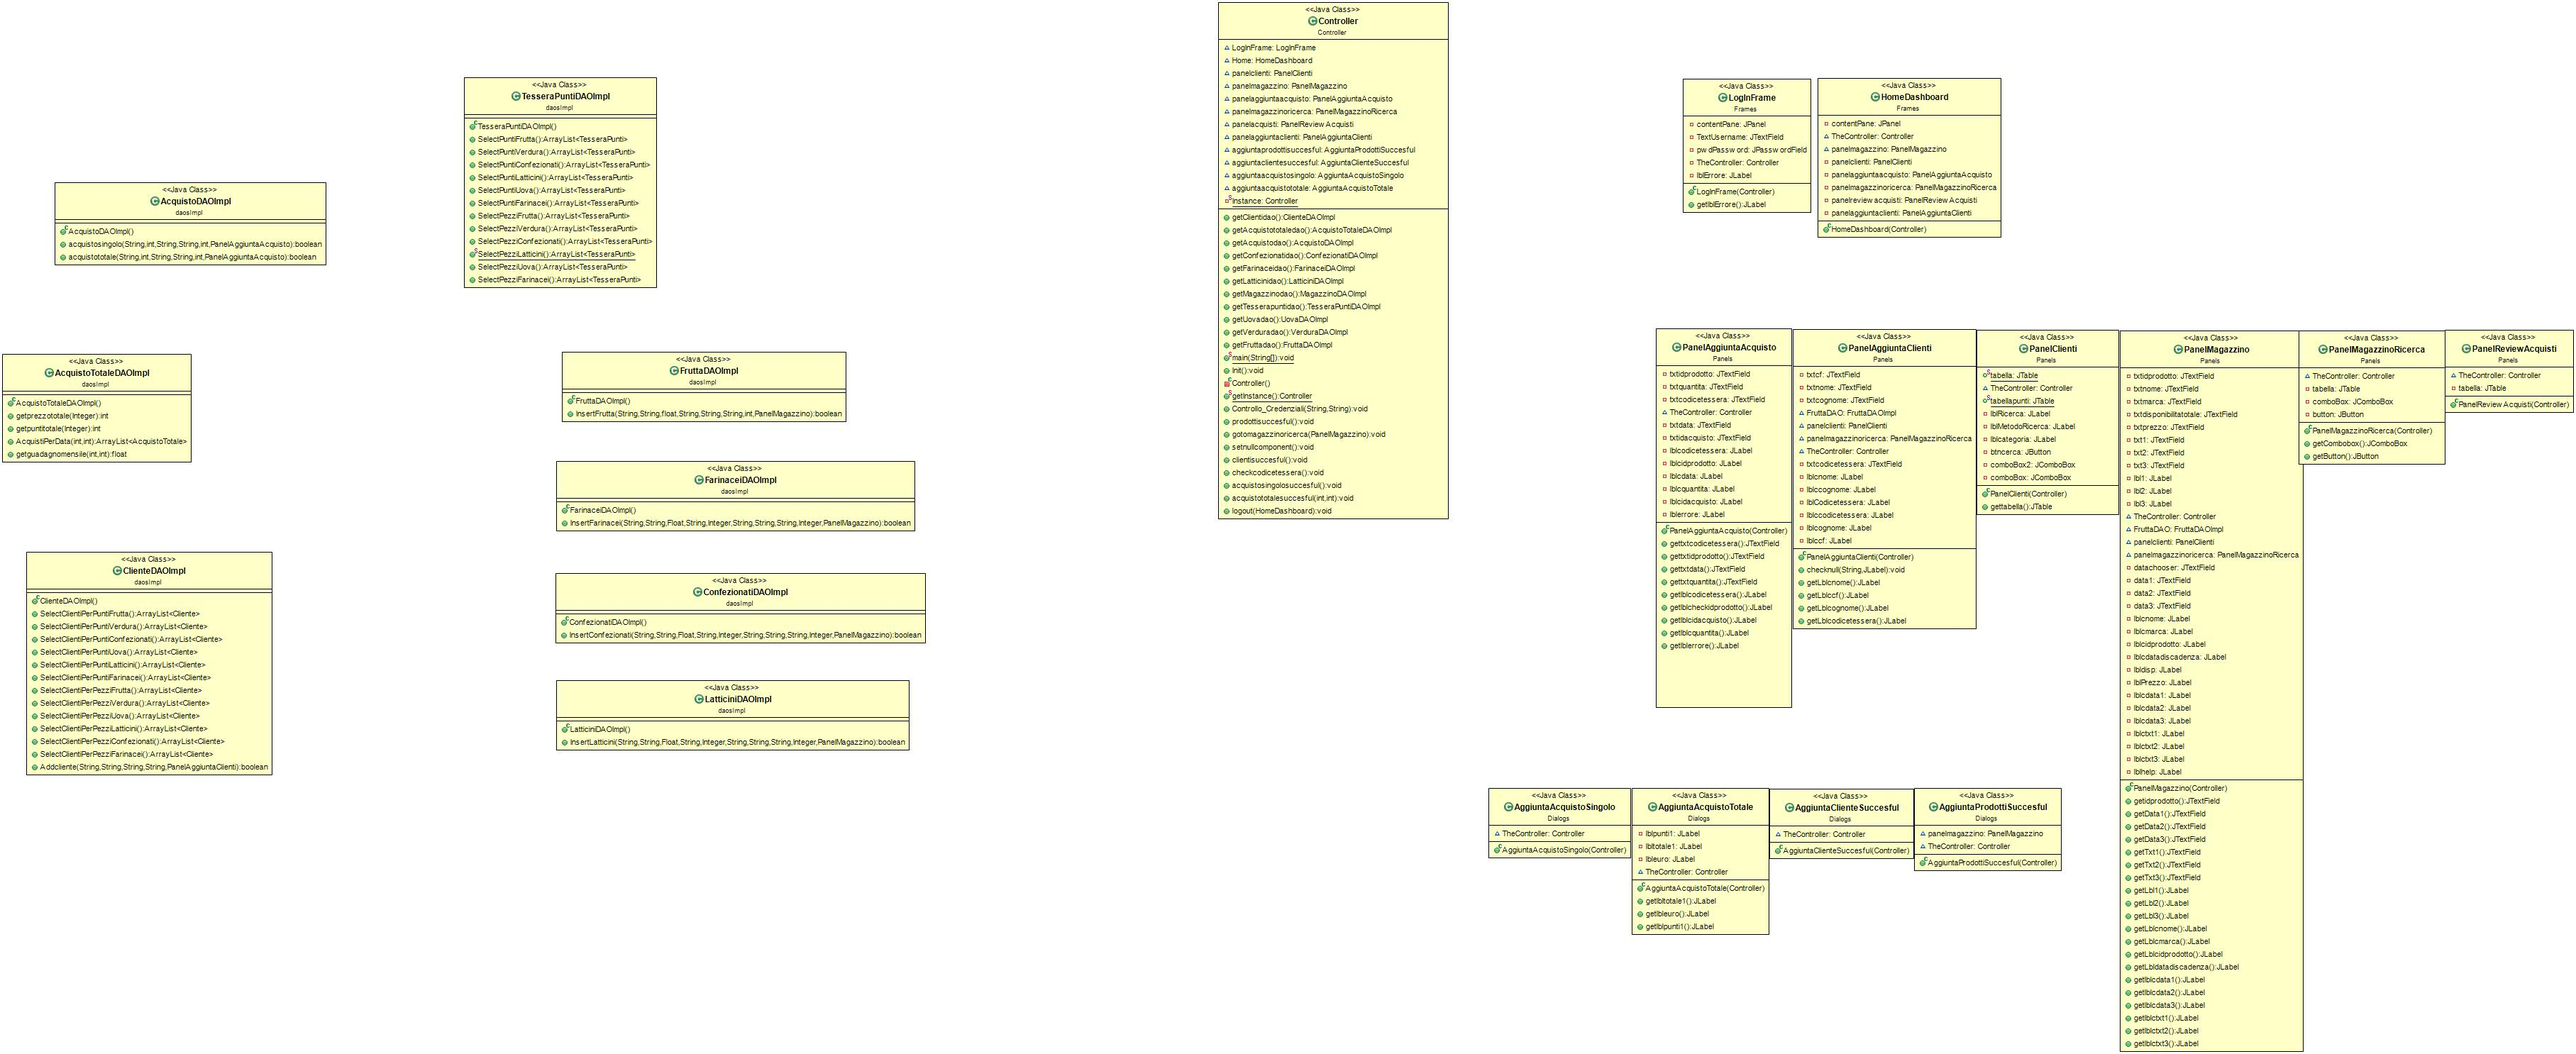
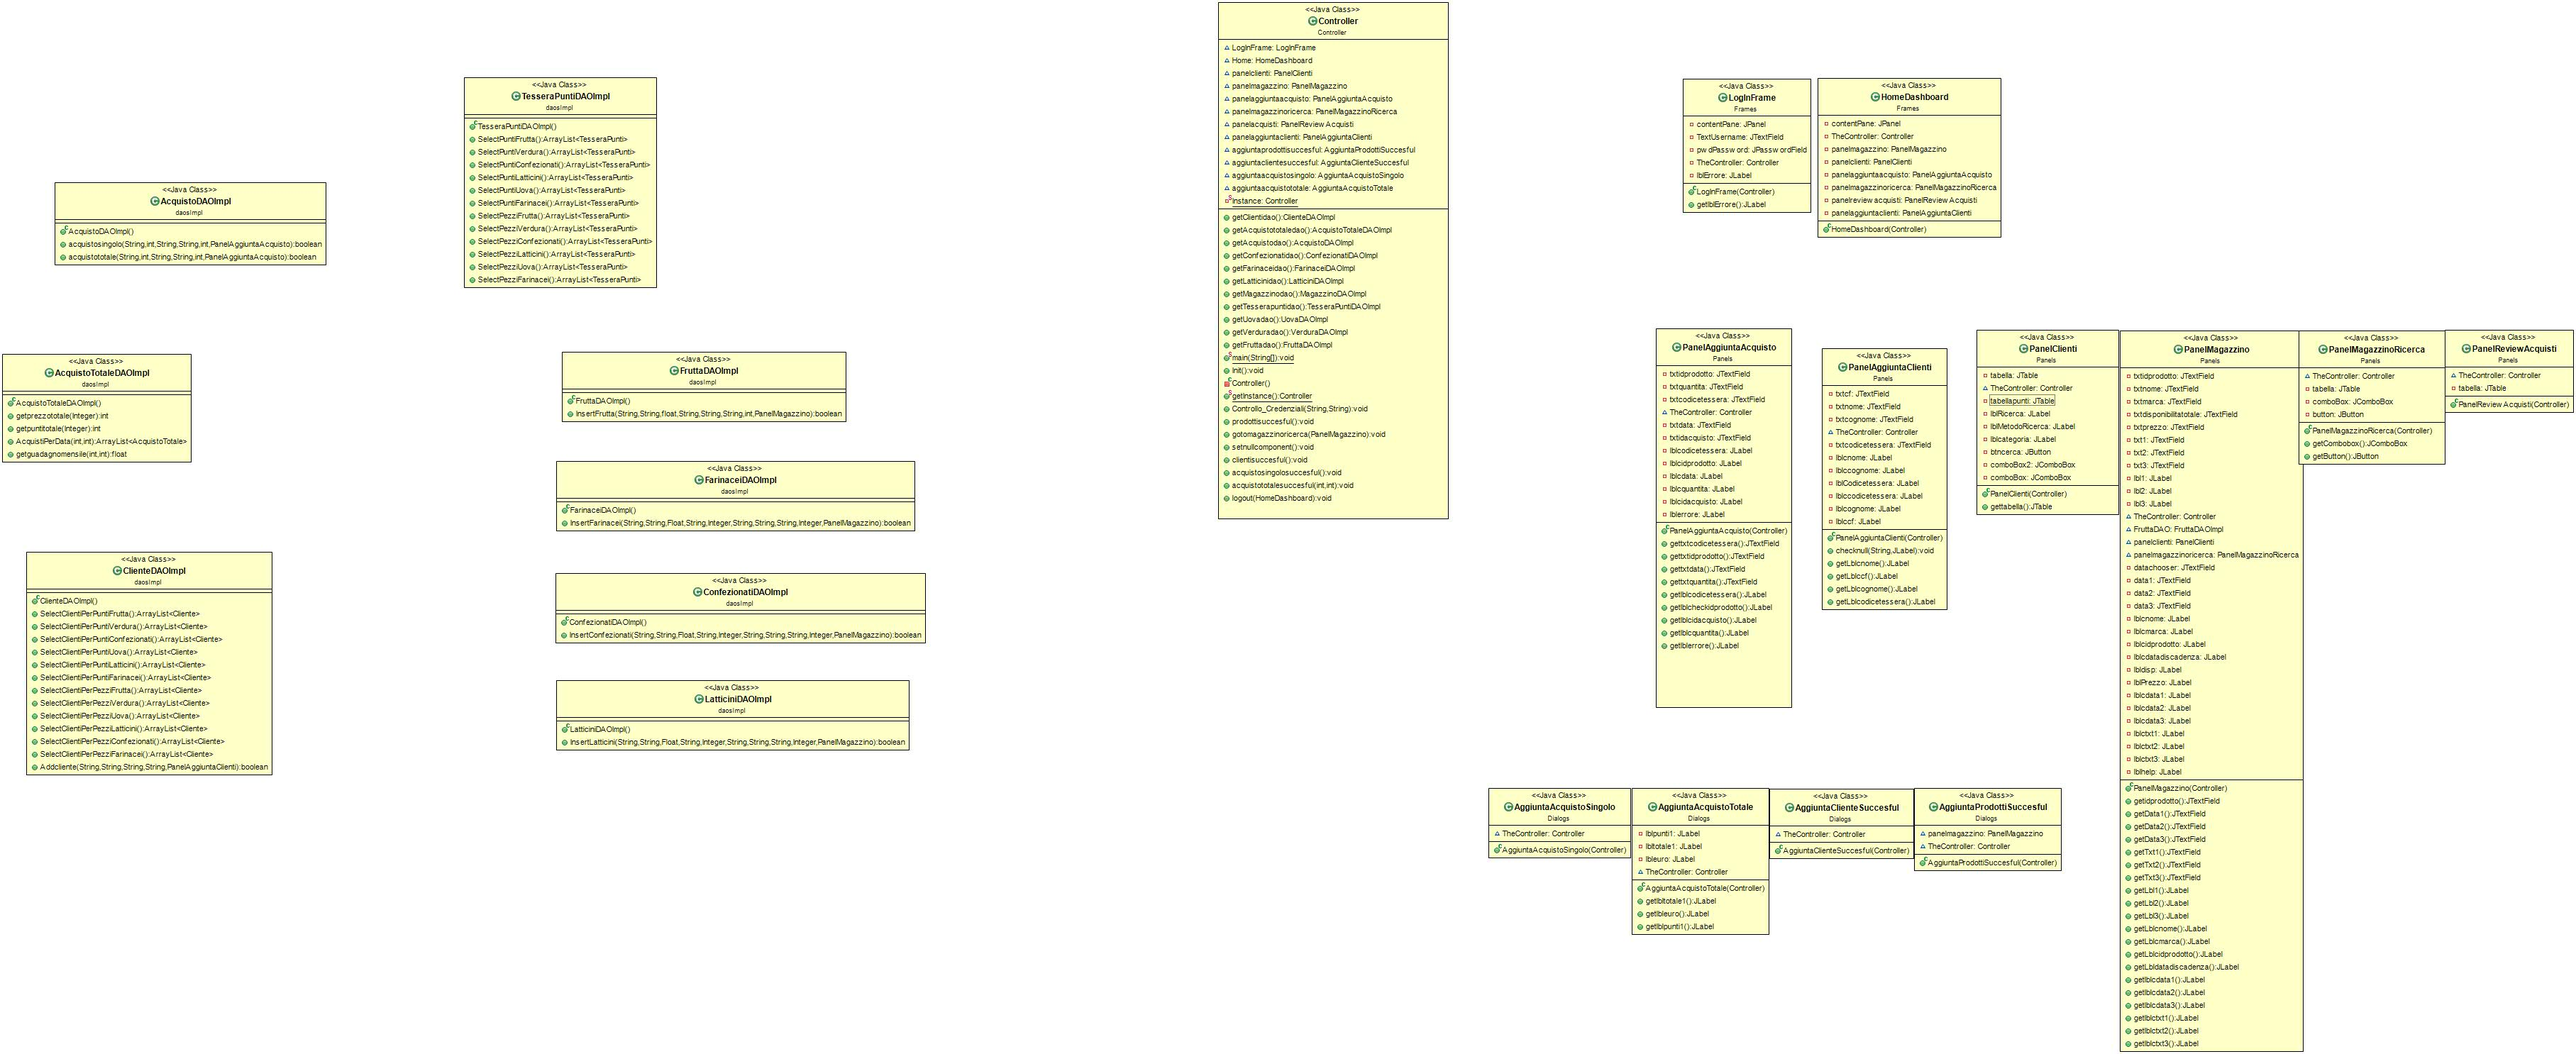
backup

Changed region(s): [[0.6847, 0.3096, 0.778, 0.6191], [0.4668, 0.4334, 0.5291, 0.4953]]

diff --git a/Object/src/Panels/PanelAggiuntaClienti.java b/Object/src/Panels/PanelAggiuntaClienti.java
@@ -20,9 +20,6 @@ public class PanelAggiuntaClienti extends JPanel {
 	private JTextField txtnome;
 	private JTextField txtcognome;
     
-    FruttaDAOImpl FruttaDAO;
-    PanelClienti panelclienti;
-    PanelMagazzinoRicerca panelmagazzinoricerca;
 
 	Controller TheController;
 	private JTextField txtcodicetessera;
@@ -124,7 +121,7 @@ public class PanelAggiuntaClienti extends JPanel {
 	      		lblcognome.setVisible(false);  
 	      		lblcnome.setVisible(false); 
 	      		lblccf.setVisible(false);
-	      		                                                     //CONTROLLO SE QUALCHE INPUT E' NULLa
+	      		                                                     //CONTROLLO SE QUALCHE INPUT E' NULL
 	      		checknull(txtnome.getText(), lblcnome );  
 	      		checknull(txtcognome.getText(), lblcognome );
 	      		checknull(txtcf.getText(), lblccf );
@@ -143,15 +140,13 @@ public class PanelAggiuntaClienti extends JPanel {
 	  				lblcognome.setText("attenzione, campo errato"); 
 	      			return;
 	      		}
-	  			
-	  			System.out.println(1);
-	      		
+	  				      		
            
 	              try {
 	      			
 					if(TheController.getClientidao().Addcliente(txtcf.getText().toString(),txtnome.getText().toString(),txtcognome.getText().toString(),txtcodicetessera.getText().toString(), PanelAggiuntaClienti.this)) {
 						 
-					TheController.clientisuccesful();  //APRE J DIALOG PER L'AVVENUTA DI UN CLIENTE
+					TheController.clientisuccesful();  //APRE J DIALOG PER L'AVVENUTA AGGIUNTA DI UN CLIENTE
 						
 					}//fine if
 	      		} 

diff --git a/Object/src/Frames/LogInFrame.java b/Object/src/Frames/LogInFrame.java
@@ -112,11 +112,12 @@ public class LogInFrame extends JFrame {
             public void keyPressed(KeyEvent e) {
                 if(e.getKeyCode() == KeyEvent.VK_ENTER)
                 {
-    TheController.Controllo_Credenziali(TextUsername.getText().toString(),pwdPassword.getText().toString() );
+                		TheController.Controllo_Credenziali(TextUsername.getText().toString(),pwdPassword.getText().toString() );
                 }
 
         }
         });
+		
 		TextUsername.addFocusListener(new FocusAdapter() {
 			@Override
 			public void focusGained(FocusEvent e) {

diff --git a/Object/src/Controller/Controller.java b/Object/src/Controller/Controller.java
@@ -172,10 +172,10 @@ public void gotomagazzinoricerca(PanelMagazzino panelmagazzino) {
 		
 	}
 
-	public void checkcodicetessera() {
-		panelaggiuntaacquisto.gettxtcodicetessera().setBorder(new LineBorder(Color.red,1));
+//	public void checkcodicetessera() {
+	//	panelaggiuntaacquisto.gettxtcodicetessera().setBorder(new LineBorder(Color.red,1));
 		
-	}
+//	}	
 
 	public void acquistosingolosuccesful() {
 		aggiuntaacquistosingolo= new AggiuntaAcquistoSingolo(this);

diff --git a/Object/src/Frames/HomeDashboard.java b/Object/src/Frames/HomeDashboard.java
@@ -30,8 +30,8 @@ import java.awt.event.FocusEvent;
 public class HomeDashboard extends JFrame {
 
 	private JPanel contentPane;
-	  Controller TheController;
-	 PanelMagazzino panelmagazzino;
+	  private Controller TheController;
+	private PanelMagazzino panelmagazzino;
 	private PanelClienti panelclienti;
 	private PanelAggiuntaAcquisto panelaggiuntaacquisto;
 	private PanelMagazzinoRicerca panelmagazzinoricerca;

diff --git a/Object/src/Panels/PanelClienti.java b/Object/src/Panels/PanelClienti.java
@@ -28,9 +28,9 @@ import javax.swing.BorderFactory;
 import javax.swing.DefaultComboBoxModel;
 import javax.swing.DefaultListCellRenderer; 
 public class PanelClienti extends JPanel {
-	public static JTable tabella;
+	private  JTable tabella;
 	Controller TheController;
-	public static JTable tabellapunti;
+	private  JTable tabellapunti;
 	
 	private JLabel lblRicerca;
 	private JLabel lblMetodoRicerca;

diff --git a/Object/src/daosImpl/TesseraPuntiDAOImpl.java b/Object/src/daosImpl/TesseraPuntiDAOImpl.java
@@ -464,7 +464,7 @@ public  	ArrayList<TesseraPunti> SelectPezziConfezionati() throws Exception {
 	   return tessera;
 }
 
-public static 	ArrayList<TesseraPunti> SelectPezziLatticini() throws Exception {
+public  	ArrayList<TesseraPunti> SelectPezziLatticini() throws Exception {
 	ArrayList<TesseraPunti> tessera = new ArrayList<TesseraPunti>();
 	TesseraPunti T;
 	
